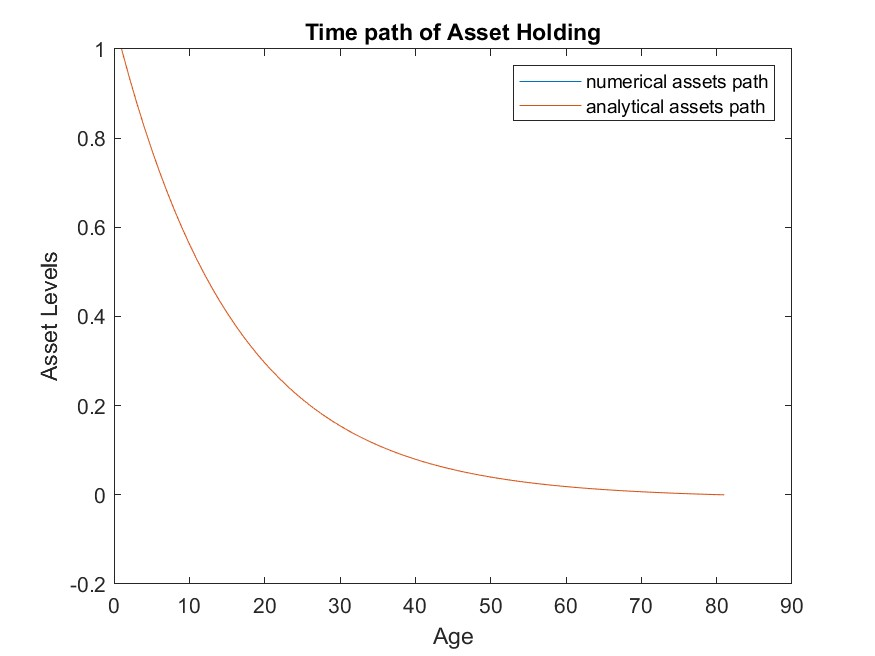
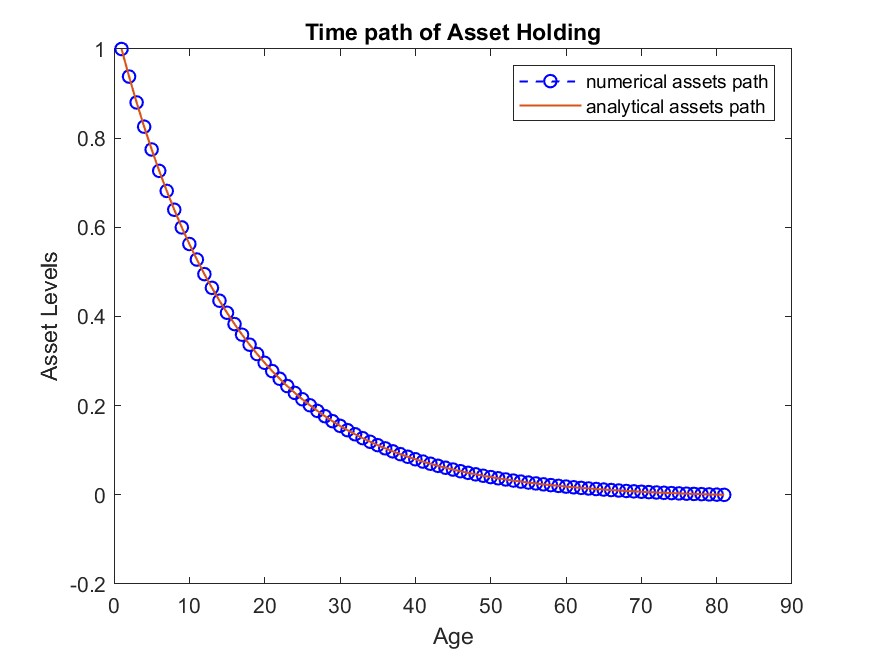
Add Replication to model2

diff --git a/matlab-codes/model2_simple_cake_eating_solved_by_Euler.m b/matlab-codes/model2_simple_cake_eating_solved_by_Euler.m
@@ -52,55 +52,66 @@ for t = 1:T
 end
 policy = cell(1, T);
 for t = 1:T
-  policy{t}.asset = assetGrid(:, t); %policy{t}(:, 1) = assetGrid(:, t);
+  policy{t}(:,1) = assetGrid(:, t);
 end
 
 %% Step 3: Solve the Model using Euler Equation
 
 % Step 3.1: Set up the value function and policy function correspondences
-% All infomation is stored in a cell variable policy. In the {1,t}'e entry of policy, it stores a
-% struct that contains the asset grids, the value funcion, and two policy functions such that the 
-% grid points of assets are 1-1 mapped onto the the value funcion, and two policy functions.
+
+% All infomation is stored in a cell variable policy. 
+% In the {1,t}'e entry of policy, it stores a matrix (gridN by 4) that contains the asset grids, 
+% the value funcion, and two policy functions in period t.
+
+% The fist col is asset grid points, the second col is the value function, the third col is the 
+% optimal consumption funcion, and the fourth col is the optimal next period asset holdings.
 
 for t = 1:T
-  policy{t}.value    = NaN(gridN, 1);
-  policy{t}.A_tplus1 = NaN(gridN, 1);
-  policy{t}.consum   = NaN(gridN, 1);
+  policy{t}(:,2)  = NaN(gridN, 1);
+  policy{t}(:,3)  = NaN(gridN, 1);
+  policy{t}(:,4)  = NaN(gridN, 1);
 end
 
 % Step 3.2: Solve recursively the consumer's problem, starting at time T and stepping backward
-% The most important step is to search all possible a_{t+1} to maximize RHS in the Bellman equation.
-% Here, I incorporate linear interpolation of the value function and fminbnd function in matlab.
+% The most important step is to solve the Euler equation for any given start-of-period asset values.
+% Here, I first define the Euler Residual Function, then use fzero to find its root.
 
 for t=T:-1:1
   if t == T
-    policy{t}.value = fun_utility(policy{t}.asset, gamma);
-    policy{t}.consum = policy{t}.asset;
-    policy{t}.A_tplus1 = zeros(gridN, 1);
+    policy{t}(:,2) = fun_utility(policy{t}(:,1), gamma);
+    policy{t}(:,3) = policy{t}(:,1);
+    policy{t}(:,4) = zeros(gridN, 1);
   else  
 
-    alpha = beta^(1/gamma) * R^((1-gamma)/gamma);
-    policy{t}.consum = (1-alpha)/(1-alpha^(T-t+1)) .* policy{t}.asset;
-    policy{t}.A_tplus1 = R .* (policy{t}.asset - policy{t}.consum);
-    policy{t}.value = fun_utility(policy{t}.consum, gamma) + ...
-          beta.*interp1(policy{t+1}.asset, policy{t+1}.value, policy{t}.A_tplus1, interpMethod, 'extrap');
-%     for itx = 1:gridN
-%       A = policy{t}.asset(itx);
-%       lbc = minCons;                     % lower bound for consumption this period
-%       ubc = A - minCons*((1-1/R^(T-t))/(R-1));  % upper bound for consumption this period
-%       bndForSol = [minCons, ubc];          % if the Euler equation has a soluton it will be within these bounds
-%       Euler_residual = @(c) fun_utility_D(c, gamma) - beta*R*fun_utility_D(R*(A - c), gamma);
-%       if ubc<= lbc || (sign(Euler_residual(ubc)) * sign(Euler_residual(lbc)) == 1)
-%         policy{t}.consum(itx) = minCons;
-%       else
-%         policy{t}.consum(itx) = fzero(Euler_residual, bndForSol, optimset('TolX',tol));
-% 
-%         policy{t}.A_tplus1(itx) = R * (A - policy{t}.consum(itx));
-%         policy{t}.value(itx) = fun_utility(policy{t}.consum(itx), gamma) + ...
-%           beta*interp1(policy{t+1}.asset, policy{t+1}.value, policy{t}.A_tplus1(itx), interpMethod, 'extrap');
-%       end
-%     end % end the loop for all discretized state space
+%     alpha = beta^(1/gamma) * R^((1-gamma)/gamma);
+%     policy{t}.consum = (1-alpha)/(1-alpha^(T-t+1)) .* policy{t}.asset;
+%     policy{t}.A_tplus1 = R .* (policy{t}.asset - policy{t}.consum);
+%     policy{t}.value = fun_utility(policy{t}.consum, gamma) + ...
+%           beta.*interp1(policy{t+1}.asset, policy{t+1}.value, policy{t}.A_tplus1, interpMethod, 'extrap');
 
+    for itx = 1:gridN
+      A = policy{t}(itx, 1);                    % state variable: start-of-period asset holdings
+      lbc = minCons;                            % lower bound for choice variable: consumption this period
+      ubc = A - minCons*((1-1/R^(T-t))/(R-1));  % upper bound for choice variable: consumption this period
+      Euler_residual = @(c) fun_utility_D(c, gamma) - ...
+        beta*R*fun_utility_D(interp1(policy{t+1}(:, 1), policy{t+1}(:,3), R*(A-c), interpMethod, "extrap"), gamma);
+      if ubc<= lbc
+        policy{t}(itx,3) = minCons;
+      end
+      if (sign(Euler_residual(ubc)) * sign(Euler_residual(lbc)) == -1)
+        policy{t}(itx,3) = fzero(Euler_residual, [lbc ubc], optimset('TolX',tol));
+      else
+        warning('In period %d, asset grid number %d calculation, the function values at the interval endpoints must differ in sign.', t, itx);
+        if itx==1
+          policy{t}(itx,3) = minCons;
+        else
+          policy{t}(itx,3) = fzero(Euler_residual, ubc, optimset('TolX',tol));
+        end
+      end
+      policy{t}(itx,4) = R * (A - policy{t}(itx,3));
+      policy{t}(itx,2) = fun_utility(policy{t}(itx,3), gamma) + ...
+        beta*interp1(policy{t+1}(:,1), policy{t+1}(:,2), policy{t}(itx,4), interpMethod, 'extrap');
+    end % end the loop for all discretized state space
   end % end if t==T or t~=T
 end % end the loop for all t from T backwards to 1
 
@@ -112,9 +123,9 @@ asset  = NaN(1, T+1); % column j value is the asset level at start of each perio
 
 asset(1, 1) = a0;   
 for t = 1:1:T                     % loop through time periods for a particular individual
-    value(1, t)   = interp1(policy{t}.asset(:,1), policy{t}.value(:,1), asset(1, t), interpMethod, 'extrap');                               
-    asset(1, t+1) = interp1(policy{t}.asset(:,1), policy{t}.A_tplus1(:,1), asset(1, t), interpMethod, 'extrap'); 
-    consum(1, t)  = interp1(policy{t}.asset(:,1), policy{t}.consum(:,1), asset(1, t), interpMethod, 'extrap'); 
+    value(1, t)   = interp1(policy{t}(2:end,1), policy{t}(2:end,2), asset(1, t), interpMethod, 'extrap');                               
+    asset(1, t+1) = interp1(policy{t}(2:end,1), policy{t}(2:end,4), asset(1, t), interpMethod, 'extrap'); 
+    consum(1, t)  = interp1(policy{t}(2:end,1), policy{t}(2:end,3), asset(1, t), interpMethod, 'extrap'); 
 end   
 
 figure(1)
@@ -144,7 +155,7 @@ for t = 1:T
 end
 
 fig5 = figure(5);
-consum_comp_nvsa = plot(1:T,consum, 1:T,consum_anal);
+consum_comp_nvsa = plot(1:T,consum,'b--o', 1:T,consum_anal,'LineWidth',1);
 xlabel('Age')
 ylabel('Consumption')
 title('Time path of consumption')
@@ -159,7 +170,7 @@ for t=2:(T+1)
 end
 
 fig6 = figure(6);
-asset_comp_nvsa = plot(1:T+1,asset, 1:T+1,asset_anal);
+asset_comp_nvsa = plot(1:T+1, asset,'b--o', 1:T+1, asset_anal,'LineWidth',1);
 xlabel('Age')
 ylabel('Asset Levels')
 title('Time path of Asset Holding')

diff --git a/README.md b/README.md
@@ -1,3 +1,4 @@
-# Simple-Lifecycle-Consumption-Problem
- This repository stores some codes to replicate the notes from IFS (https://ifs.org.uk/publications/dynamic-economics-practice)。
- My Replication notes are [here](https://lumbar-tick-4a3.notion.site/Dynamic-Economics-in-Practice-_-IFS-Notes-400712279106451aadcb268bbd596eea)
+# A Simple Lifecycle Consumption Problem
+ This repository stores codes to replicate the tutorial from IFS (https://ifs.org.uk/publications/dynamic-economics-practice), which teaches how to numerically solve some basic lifecycle consumption-savings model (one continuous state variable and one continuous choice variable).
+
+ My Replication notes are [here](https://lumbar-tick-4a3.notion.site/Dynamic-Economics-in-Practice-_-IFS-Notes-400712279106451aadcb268bbd596eea).
